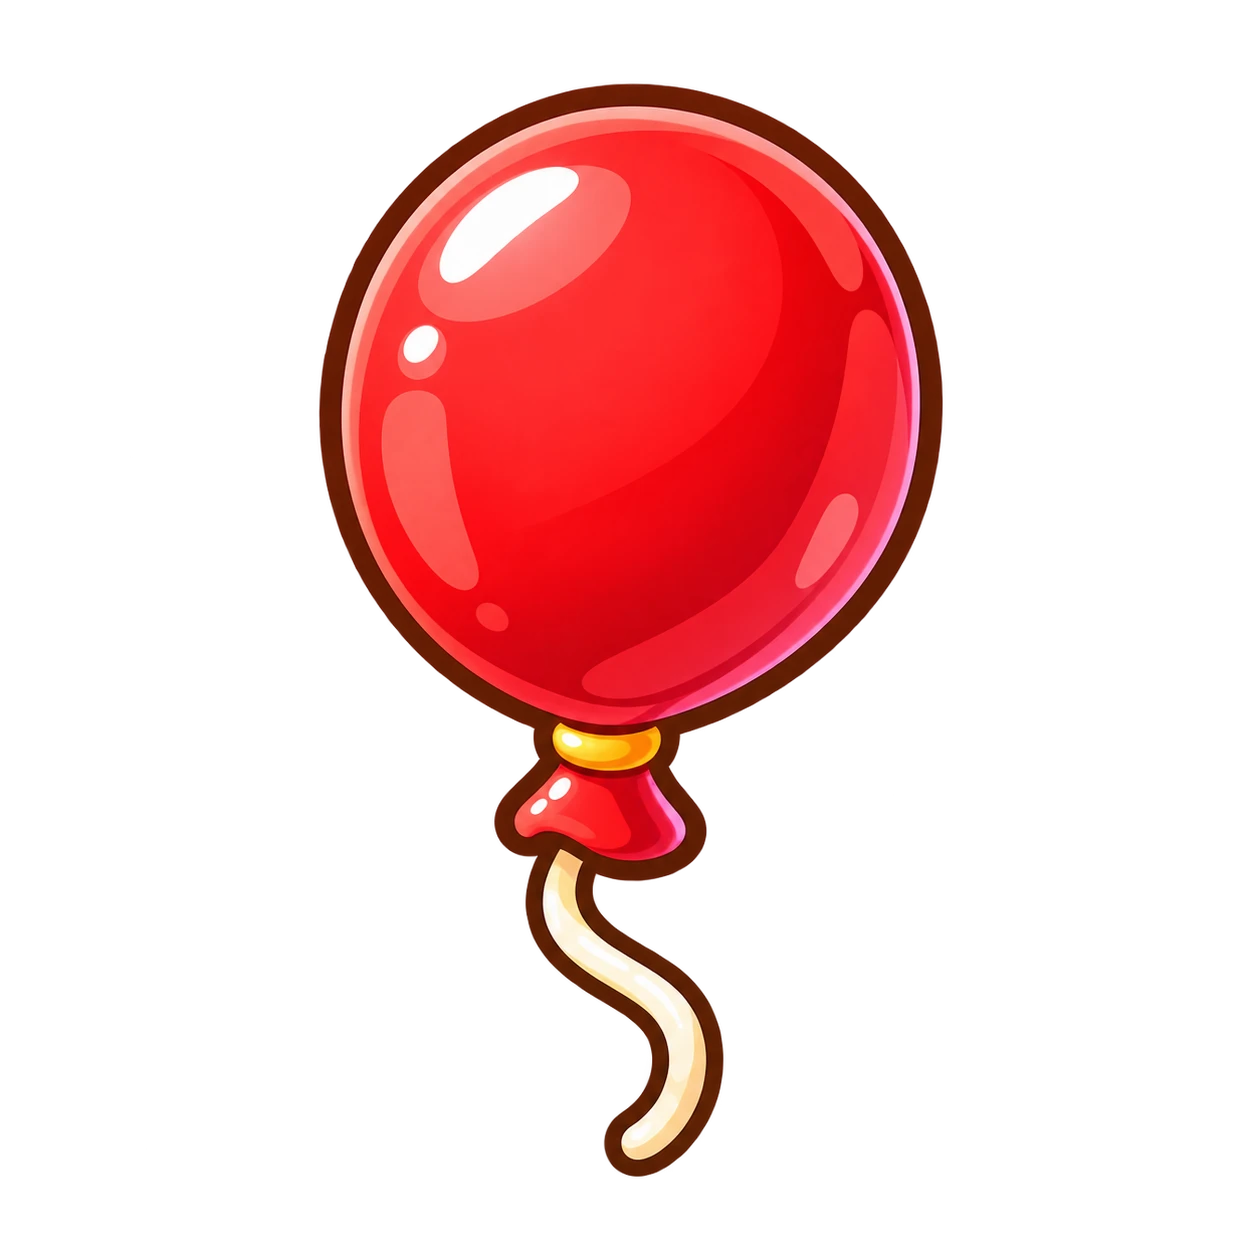
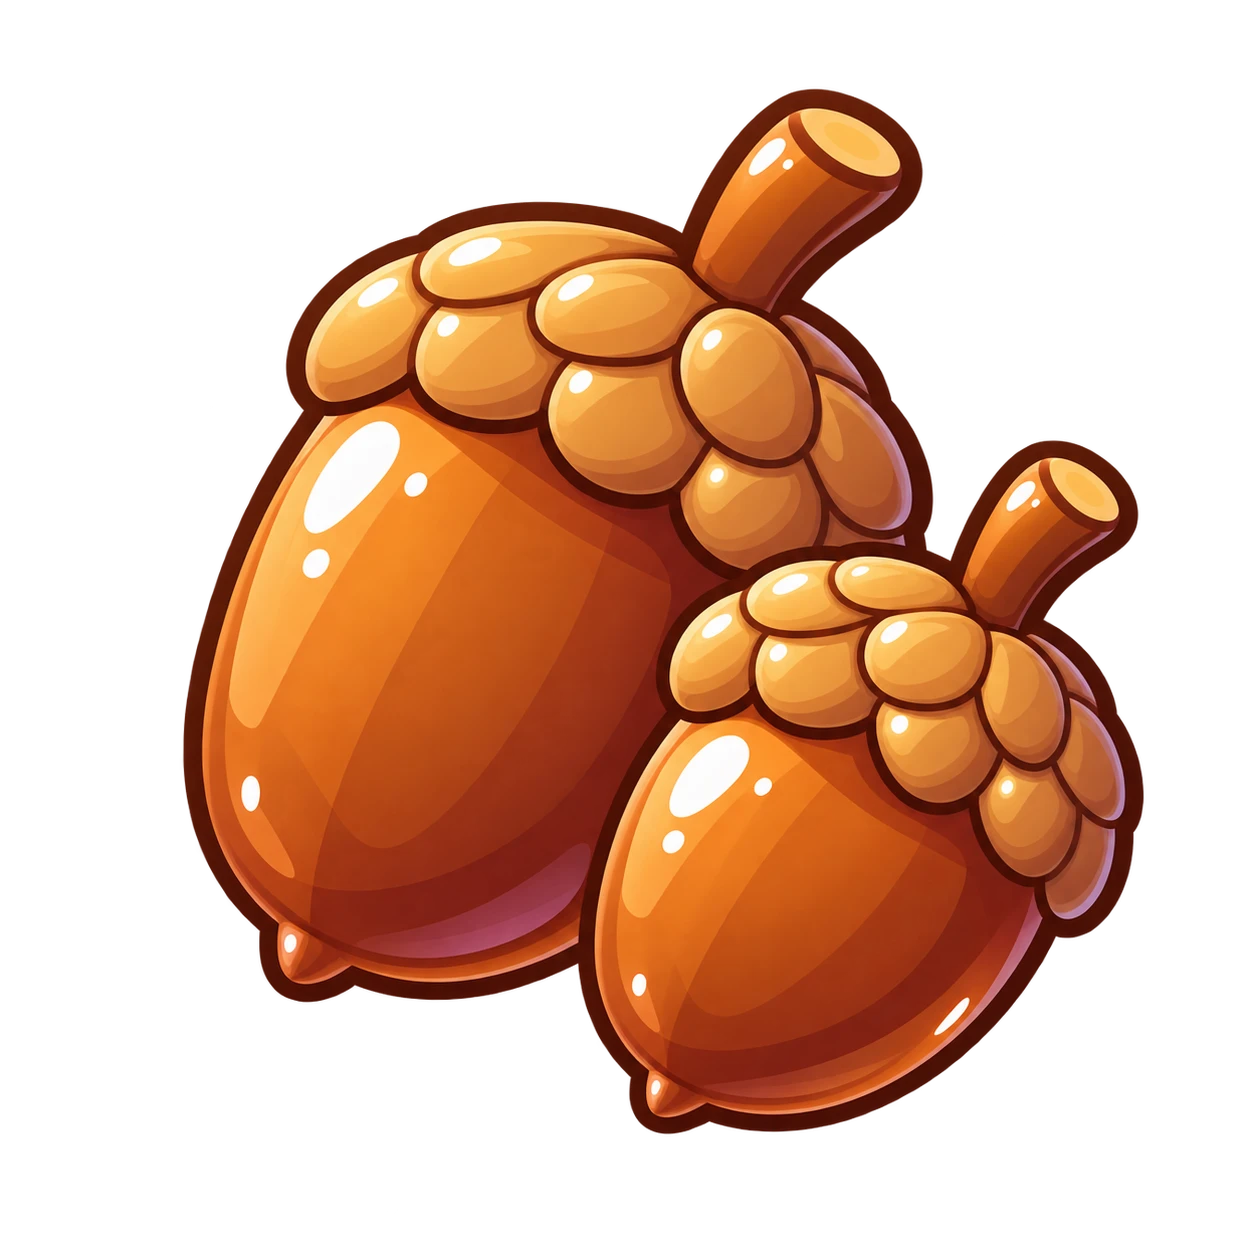
アイテム画像の名前と中身のズレを修正
- きいろのながぐつ/ころころどんぐり/あかい風船の3ファイルが
  三すくみで中身がズレていた（長靴の中身が実は→どんぐり、
  どんぐりの中身が実は→風船、風船の中身が実は→長靴）ため、
  正しい組み合わせに直した。
- こもち/こびーの画像パスが入れ替わっていたため修正。

diff --git a/src/lib/gacha/prizes.ts b/src/lib/gacha/prizes.ts
@@ -68,9 +68,9 @@ export const GACHA_PRIZES: readonly GachaPrize[] = [
   { id: "other_azubee", name: "あずびー", rarity: "UR", type: "item", pool: "regular", image: "/collection/items/two-dogs-icon-transparent.webp" },
   { id: "other_omojii", name: "おもじぃ", rarity: "UR", type: "item", pool: "regular", image: "/collection/items/8B027535-244F-4729-86F5-A69CDD91D103.png" },
   { id: "other_nakayoshi_azubee", name: "なかよしあずびー", rarity: "SSR", type: "item", pool: "regular", image: "/collection/items/890D1313-B79F-493C-97C2-1898F7663C01.png" },
-  { id: "other_komochi", name: "こもち", rarity: "UR", type: "item", pool: "regular", image: "/collection/items/4FA70BBA-6CBA-42B2-9A96-4B07AFDF56E0.png" },
+  { id: "other_komochi", name: "こもち", rarity: "UR", type: "item", pool: "regular", image: "/collection/items/C7DF48F4-588E-4B31-983E-A52623328924.png" },
   { id: "other_azuki", name: "小豆(あずき)", rarity: "UR", type: "item", pool: "regular", image: "/collection/items/6F31AD19-B242-42D6-83D3-380A3F3D3FC0.png" },
-  { id: "other_kobee", name: "こびー", rarity: "UR", type: "item", pool: "regular", image: "/collection/items/C7DF48F4-588E-4B31-983E-A52623328924.png" },
+  { id: "other_kobee", name: "こびー", rarity: "UR", type: "item", pool: "regular", image: "/collection/items/4FA70BBA-6CBA-42B2-9A96-4B07AFDF56E0.png" },
   { id: "other_kamunayo", name: "かむなよ", rarity: "SSR", type: "item", pool: "regular", image: "/collection/items/7FEA86AD-6904-4151-BEA8-5A33F7C97B01.png" },
   { id: "other_sparkle_rope_crown", name: "きらきらロープクラウン", rarity: "SR", type: "item", pool: "regular", image: "/collection/items/sparkle-rope-crown.webp" },
 

diff --git a/src/lib/collection/items.ts b/src/lib/collection/items.ts
@@ -145,9 +145,9 @@ const CURATED_ITEMS: readonly CollectionItem[] = [
   { id: "other_azubee", name: "あずびー", image: "/collection/items/two-dogs-icon-transparent.webp", category: "other", series: null, rarity: "UR" },
   { id: "other_omojii", name: "おもじぃ", image: "/collection/items/8B027535-244F-4729-86F5-A69CDD91D103.png", category: "other", series: null, rarity: "UR" },
   { id: "other_nakayoshi_azubee", name: "なかよしあずびー", image: "/collection/items/890D1313-B79F-493C-97C2-1898F7663C01.png", category: "other", series: null, rarity: "SSR" },
-  { id: "other_komochi", name: "こもち", image: "/collection/items/4FA70BBA-6CBA-42B2-9A96-4B07AFDF56E0.png", category: "other", series: null, rarity: "UR" },
+  { id: "other_komochi", name: "こもち", image: "/collection/items/C7DF48F4-588E-4B31-983E-A52623328924.png", category: "other", series: null, rarity: "UR" },
   { id: "other_azuki", name: "小豆(あずき)", image: "/collection/items/6F31AD19-B242-42D6-83D3-380A3F3D3FC0.png", category: "other", series: null, rarity: "UR" },
-  { id: "other_kobee", name: "こびー", image: "/collection/items/C7DF48F4-588E-4B31-983E-A52623328924.png", category: "other", series: null, rarity: "UR" },
+  { id: "other_kobee", name: "こびー", image: "/collection/items/4FA70BBA-6CBA-42B2-9A96-4B07AFDF56E0.png", category: "other", series: null, rarity: "UR" },
   { id: "other_kamunayo", name: "かむなよ", image: "/collection/items/7FEA86AD-6904-4151-BEA8-5A33F7C97B01.png", category: "other", series: null, rarity: "SSR" },
 
   // --- 通常図鑑：おでかけ小物 ------------------------------------------
